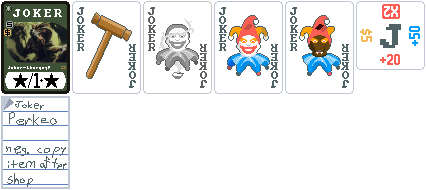
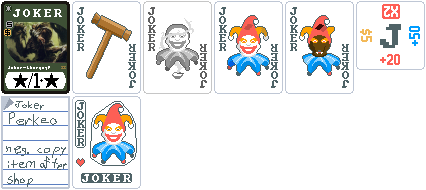
Add Sticker Sheet

Changed region(s): [[0.1526, 0.5, 0.3357, 1.0]]

diff --git a/README.md b/README.md
@@ -6,7 +6,7 @@ Additions are generally meant to be well-balanced with vanilla, although the dec
 
 Current contents:
 
-- 6 Jokers
+- 7 Jokers
 - 3 Tags
 - 3 Decks
 - 3 [Deck Sleeves](https://github.com/larswijn/CardSleeves)
